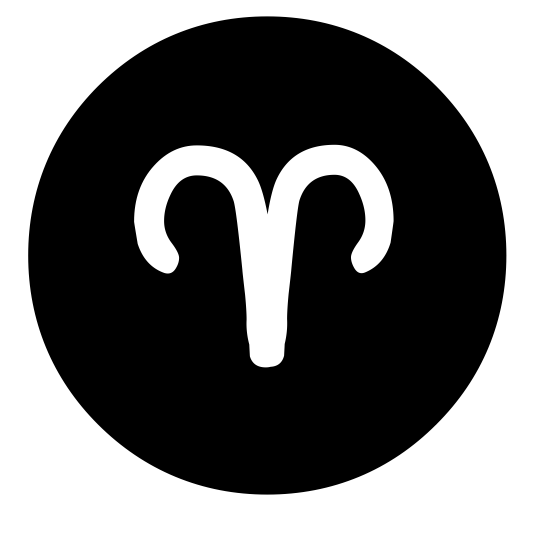
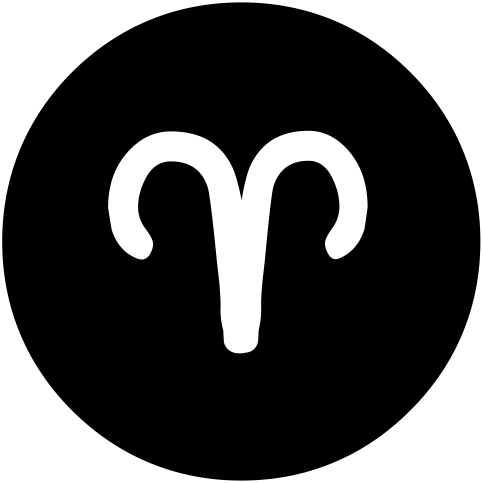
fixed sign

diff --git a/app/assets/stylesheets/components/_sign.scss b/app/assets/stylesheets/components/_sign.scss
@@ -1,69 +1,53 @@
 .user-sign {
   background-size: cover;
+  background-color: white;
+  border: 3px solid white;
 }
 
 .aquarius {
-  background-image: asset-url('aquarius.jpg');
+  background-image: asset-url('aquarius.png');
 }
 
 .aries {
-  background-image: url("<%= asset_path 'aries.png' %>");
-  background-color: gold;
-  background-size: cover;
+  background-image: asset-url('aries.png');
 }
 
 .cancer {
-  background-image: url("<%= asset_path 'cancer.png' %>");
-  background-color: gold;
-  background-size: cover;
+  background-image: asset-url('cancer.png');
 }
 
 .capricorn {
-  background-image: url("<%= asset_path 'capricorn.png' %>");
-  background-color: gold;
-  background-size: cover;
+  background-image: asset-url('capricorn.png');
 }
 
 .gemini {
-  background-image: url("<%= asset_path 'gemini.png' %>");
-  background-color: gold;
-  background-size: cover;
+  background-image: asset-url('gemini.png');
 }
 
 .leo {
-  background-image: url("<%= asset_path 'leo.png' %>");
-  background-color: gold;
-  background-size: cover;
+  background-image: asset-url('leo.png');
 }
 
 .libra {
-  background-image: url("<%= asset_path 'libra.png' %>");
-  background-color: gold;
-  background-size: cover;
+  background-image: asset-url('libra.png');
 }
 
 .pisces {
-  background-image: url("<%= asset_path 'pisces.png' %>");
-  background-color: gold;
-  background-size: cover;
+  background-image: asset-url('pisces.png');
 }
 
 .sagittarius {
-  background-image: url("<%= asset_path 'sagittarius.png' %>");
+  background-image: asset-url('sagittarius.png');
 }
 
 .scorpio {
-  background-image: asset-url('scorpio.jpg');
+  background-image: asset-url('scorpio.png');
 }
 
 .taurus {
-  background-image: url("<%= asset_path 'taurus.png' %>");
-  background-color: gold;
-  background-size: cover;
+  background-image: asset-url('taurus.png');
 }
 
 .virgo {
-  background-image: url("<%= asset_path 'virgo.png' %>");
-  background-color: gold;
-  background-size: cover;
+  background-image: asset-url('virgo.png');
 }
